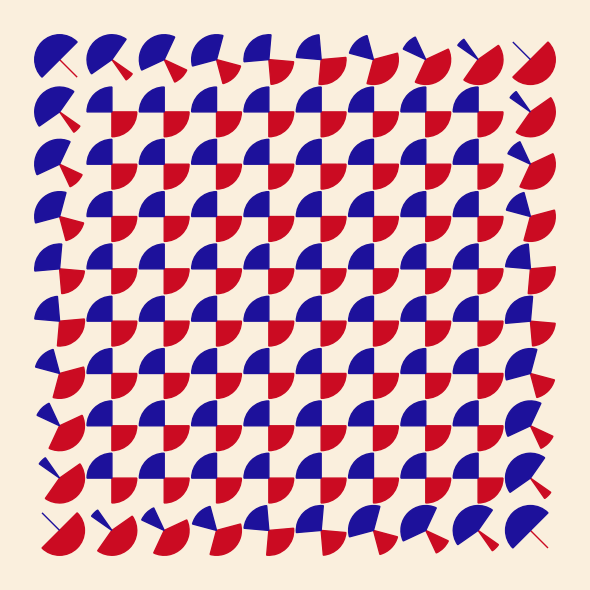
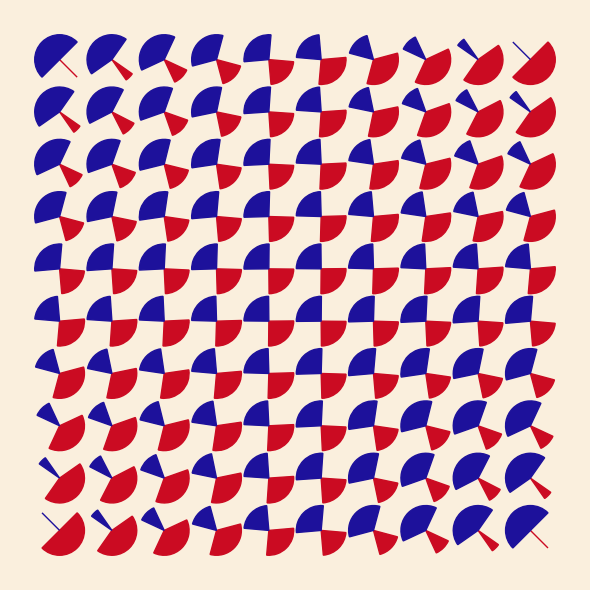
Le Parc Mutation of Forms: correct angles & add variation designs

diff --git a/julio-le-parc-replications/master_script.py b/julio-le-parc-replications/master_script.py
@@ -7,6 +7,10 @@ import matplotlib.pyplot as plt
 import numpy as np
 
 
+# For MUTATION OF FORMS
+# See: https://www.metmuseum.org/art/collection/search/815337
+
+
 COLOURS = {
     "MUTATION OF FORMS": {
         "OFF WHITE": "#FAEFDD",
@@ -15,15 +19,11 @@ COLOURS = {
     }
 }
 
-
-# For MUTATION OF FORMS
-# See: https://www.metmuseum.org/art/collection/search/815337
 number_points_per_side = 10
-padding_per_side = 2
-pad_points = 2
+grid_indices = range(number_points_per_side)
 
 
-def create_linspaced_angles(return_red=False, return_blue=False):
+def create_linspaced_angles(max_coverage, min_coverage):
     """ TODO. """
     # NOTE: angles start pointing downwards i.e. 0 degs is south in PyPlot.
     # So red wedges are constrained to -135 to +45, blues to +45 to +225.
@@ -43,42 +43,47 @@ def create_linspaced_angles(return_red=False, return_blue=False):
 
     # Define max and min angular coverages for the wedges:
     # * red wedges go from -135 <- -45 -> +45
-    max_coverage_red = (-135, 45)
-    min_coverage_red = -45
     # * blue wedges go from +45 <- +135 -> +225
-    max_coverage_blue = (45, 225)
-    min_coverage_blue = 135
 
-    # Use linspace to get 1D arrays of angles evenly spaced across coverage
-    red_theta1_min_to_max = np.linspace(
-        max_coverage_red[0], min_coverage_red, num=number_points_per_side)
-    red_theta2_min_to_max = np.linspace(
-        max_coverage_red[1], min_coverage_red, num=number_points_per_side)
-    blue_theta1_min_to_max = np.linspace(
-        max_coverage_blue[0], min_coverage_blue, num=number_points_per_side)
-    blue_theta2_min_to_max = np.linspace(
-        max_coverage_blue[1], min_coverage_blue, num=number_points_per_side)
+    # Use linspace to get 1D arrays of angles evenly spaced across coverage:
+    theta1_min_to_max = np.linspace(
+        max_coverage[0], min_coverage[0], num=number_points_per_side)
+    theta2_min_to_max = np.linspace(
+        max_coverage[1], min_coverage[1], num=number_points_per_side)
 
-    # Zip up theta{1, 2} into an iterator to provide list of angle tuples later
-    red_linspace_thetas = zip(red_theta1_min_to_max, red_theta2_min_to_max)
-    blue_linspace_thetas = zip(blue_theta1_min_to_max, blue_theta2_min_to_max)
+    return np.column_stack((theta1_min_to_max, theta2_min_to_max))
 
-    if return_red:
-        return list(red_linspace_thetas)
-    elif return_blue:
-        return list(blue_linspace_thetas)
 
-def create_angles_array(base_angle):
+def create_angles_array(is_red=True):
     """ TODO. """
-    angles_array = np.full(
+    angles_array = np.zeros(
         (number_points_per_side, number_points_per_side),
-        base_angle,
         dtype=(float, 2)
     )
-    print(angles_array)
-    ###red_spaced_thetas = create_linspaced_angles(return_red=True)
-    ###blue_spaced_thetas = create_linspaced_angles(return_blue=True)
+
+    if is_red:
+        index = 1
+        spaced_thetas = create_linspaced_angles(
+            max_coverage=(-135, 45), min_coverage=(-45, -45))
+    else:
+        index = -1
+        spaced_thetas = create_linspaced_angles(
+            max_coverage=(45, 225), min_coverage=(135, 135))
+
+    # 1. Make first and last column correct:
+    for j in grid_indices:
+        angles_array[0][j] = spaced_thetas[::index][j]
+        angles_array[-1][j] = spaced_thetas[::index][-j-1]
+    # 2. Create rows linearly-spaced based on first and last columns:
+    for i in grid_indices:
+        row_angles = create_linspaced_angles(
+            max_coverage=angles_array[0][i],
+            min_coverage=angles_array[-1][i],
+        )
+        angles_array[i] = row_angles
+
     return angles_array
+
 
 def plot_wedges(position, red_wedge_thetas, blue_wedge_thetas):
     """ TODO. """
@@ -100,12 +105,11 @@ def plot_wedge(centre, theta1, theta2, colour):
 
 def plot_mutation_of_forms(axes):
     """ TODO. """
-
-    grid_indices = range(number_points_per_side)
+    pad_points = 2
     for i, j in itertools.product(grid_indices, grid_indices):
         # Defaults for now while get the angles defined and in right places:
-        red_thetas = create_angles_array((-90, 0),)[i][j]
-        blue_thetas = create_angles_array((90, 180),)[i][j]
+        red_thetas = create_angles_array(is_red=True)[i][j]
+        blue_thetas = create_angles_array(is_red=False)[i][j]
 
         # Now create and plot the wedges onto the canvas:
         position_xy = (pad_points + i, pad_points + j)
@@ -121,10 +125,13 @@ plot_mutation_of_forms(ax)
 fig.set_canvas(plt.gcf().canvas)
 background_colour = COLOURS["MUTATION OF FORMS"]["OFF WHITE"]  # needed below
 fig.patch.set_facecolor(background_colour)
+
+padding_per_side = 2
 limits = (
     number_points_per_side - padding_per_side,
     number_points_per_side + padding_per_side
 )
+
 ax.set_xlim(*limits)
 ax.set_ylim(*limits)
 plt.axis('equal')
